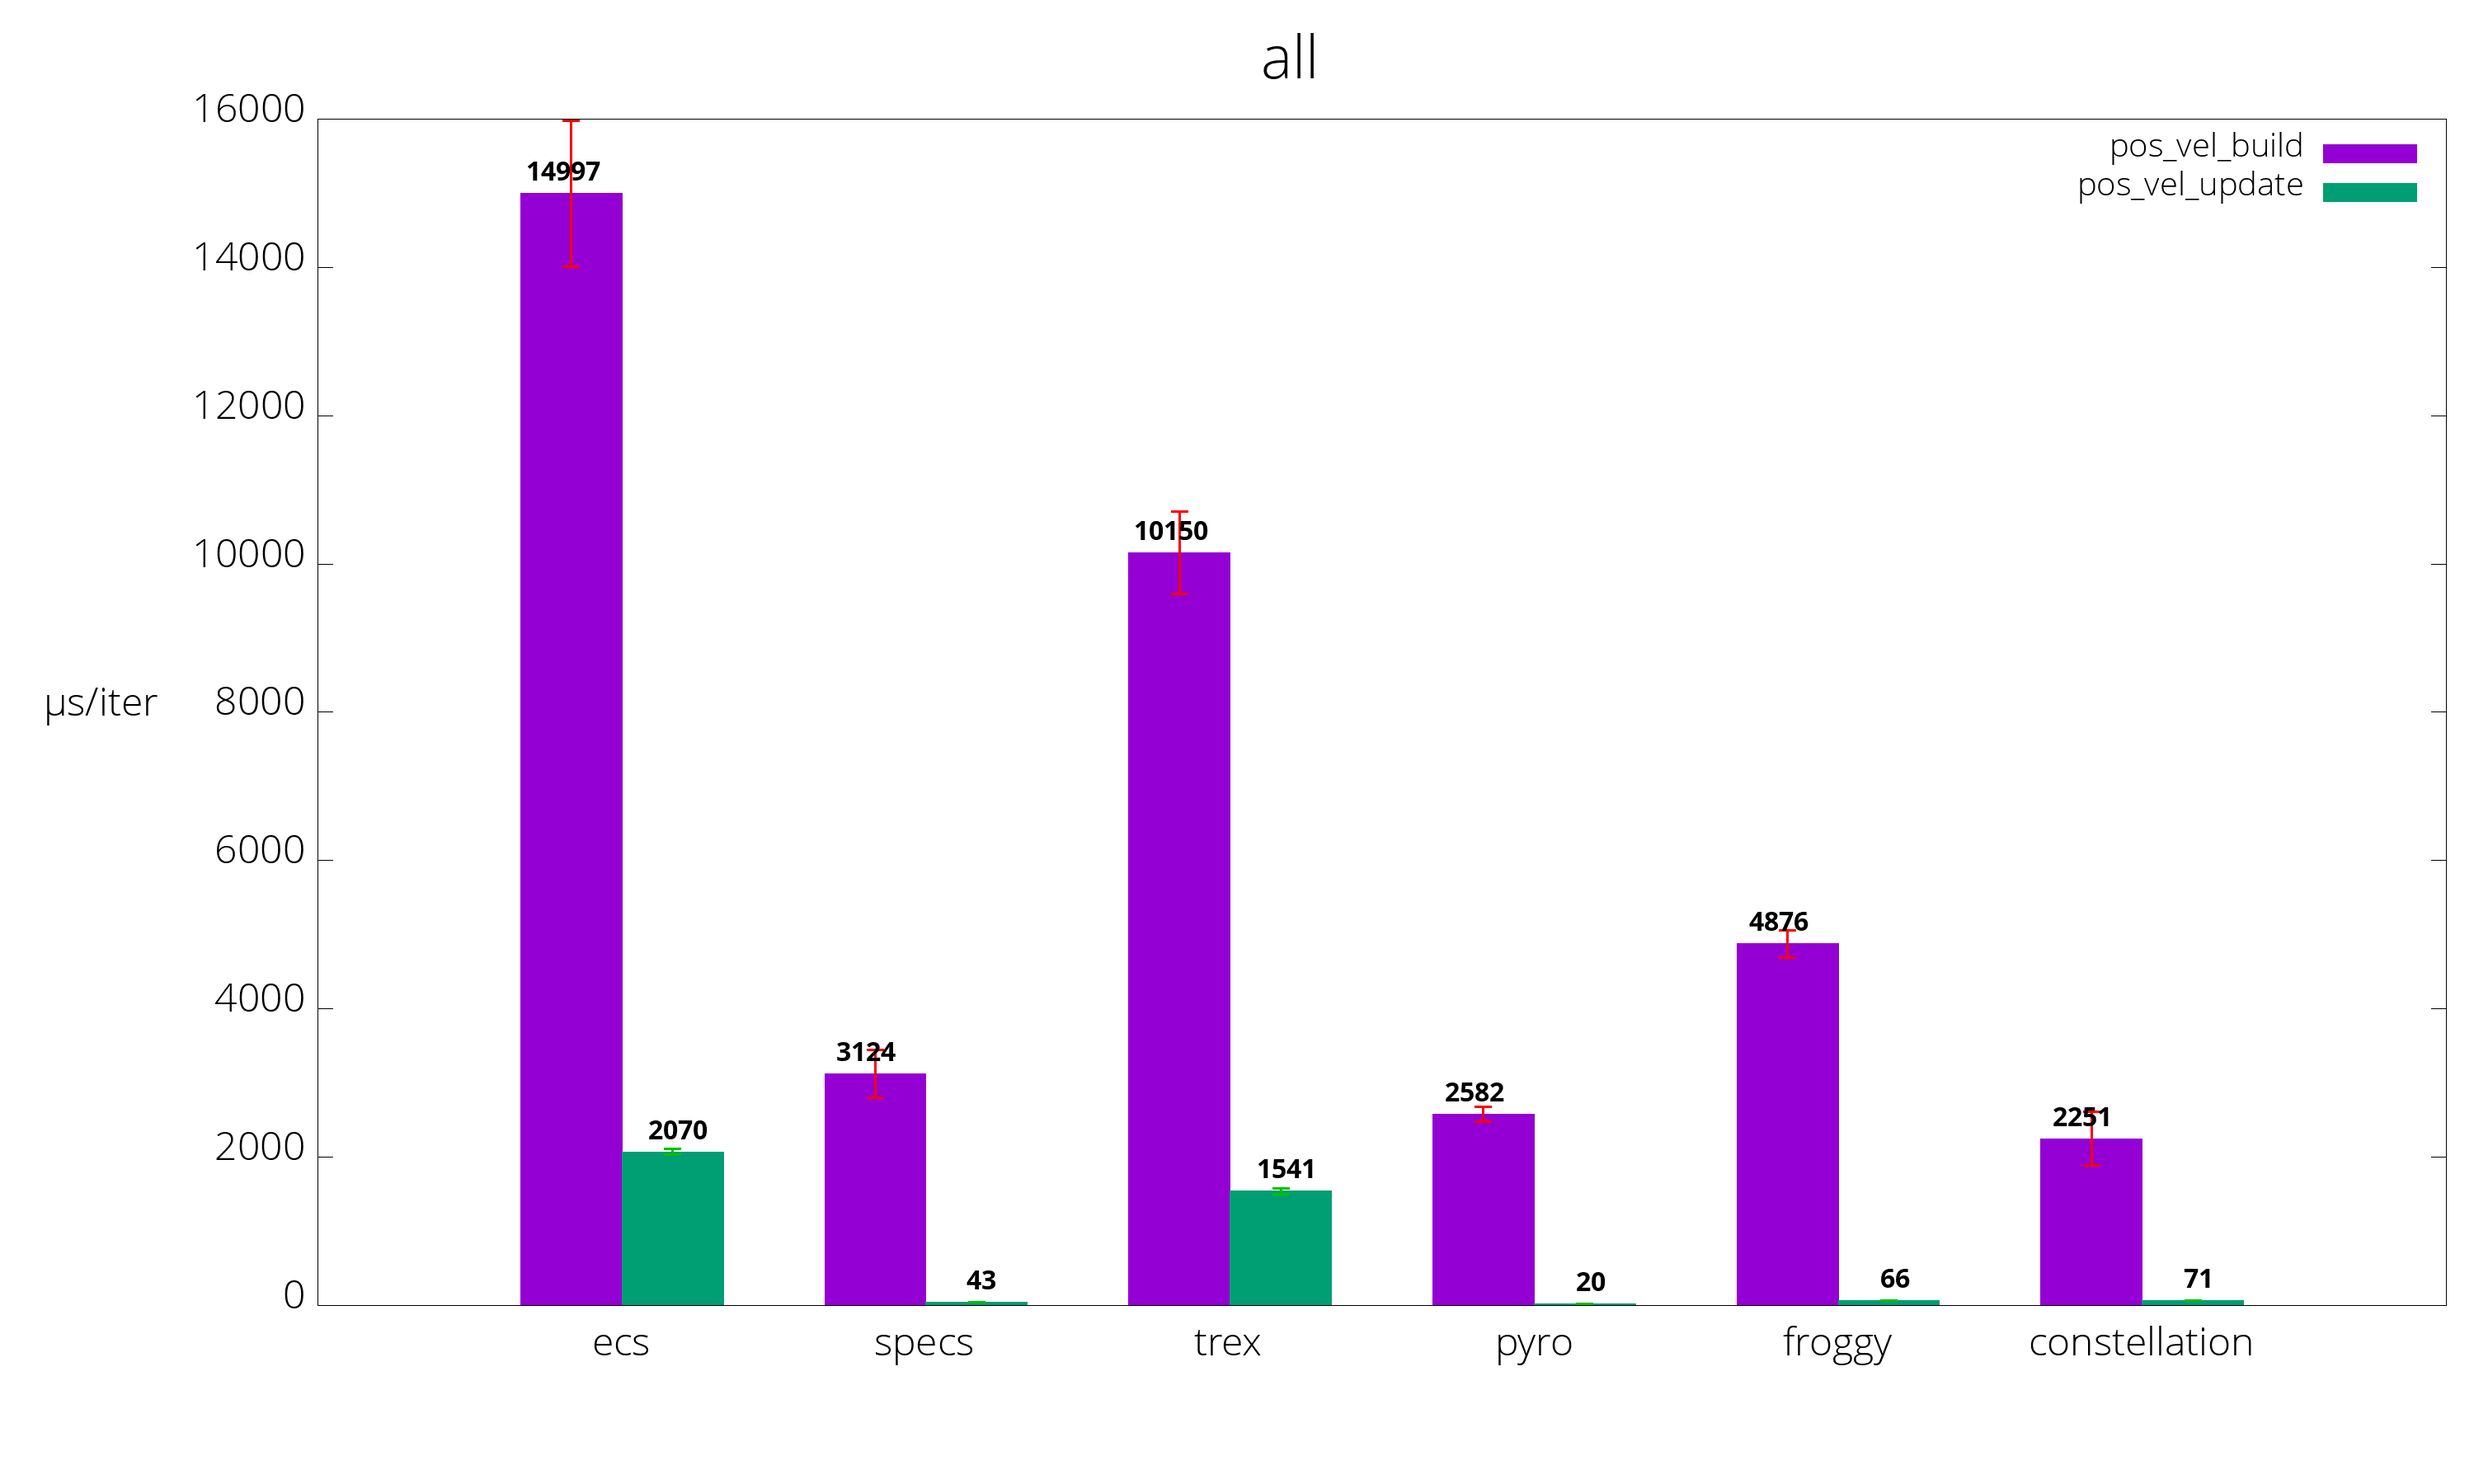
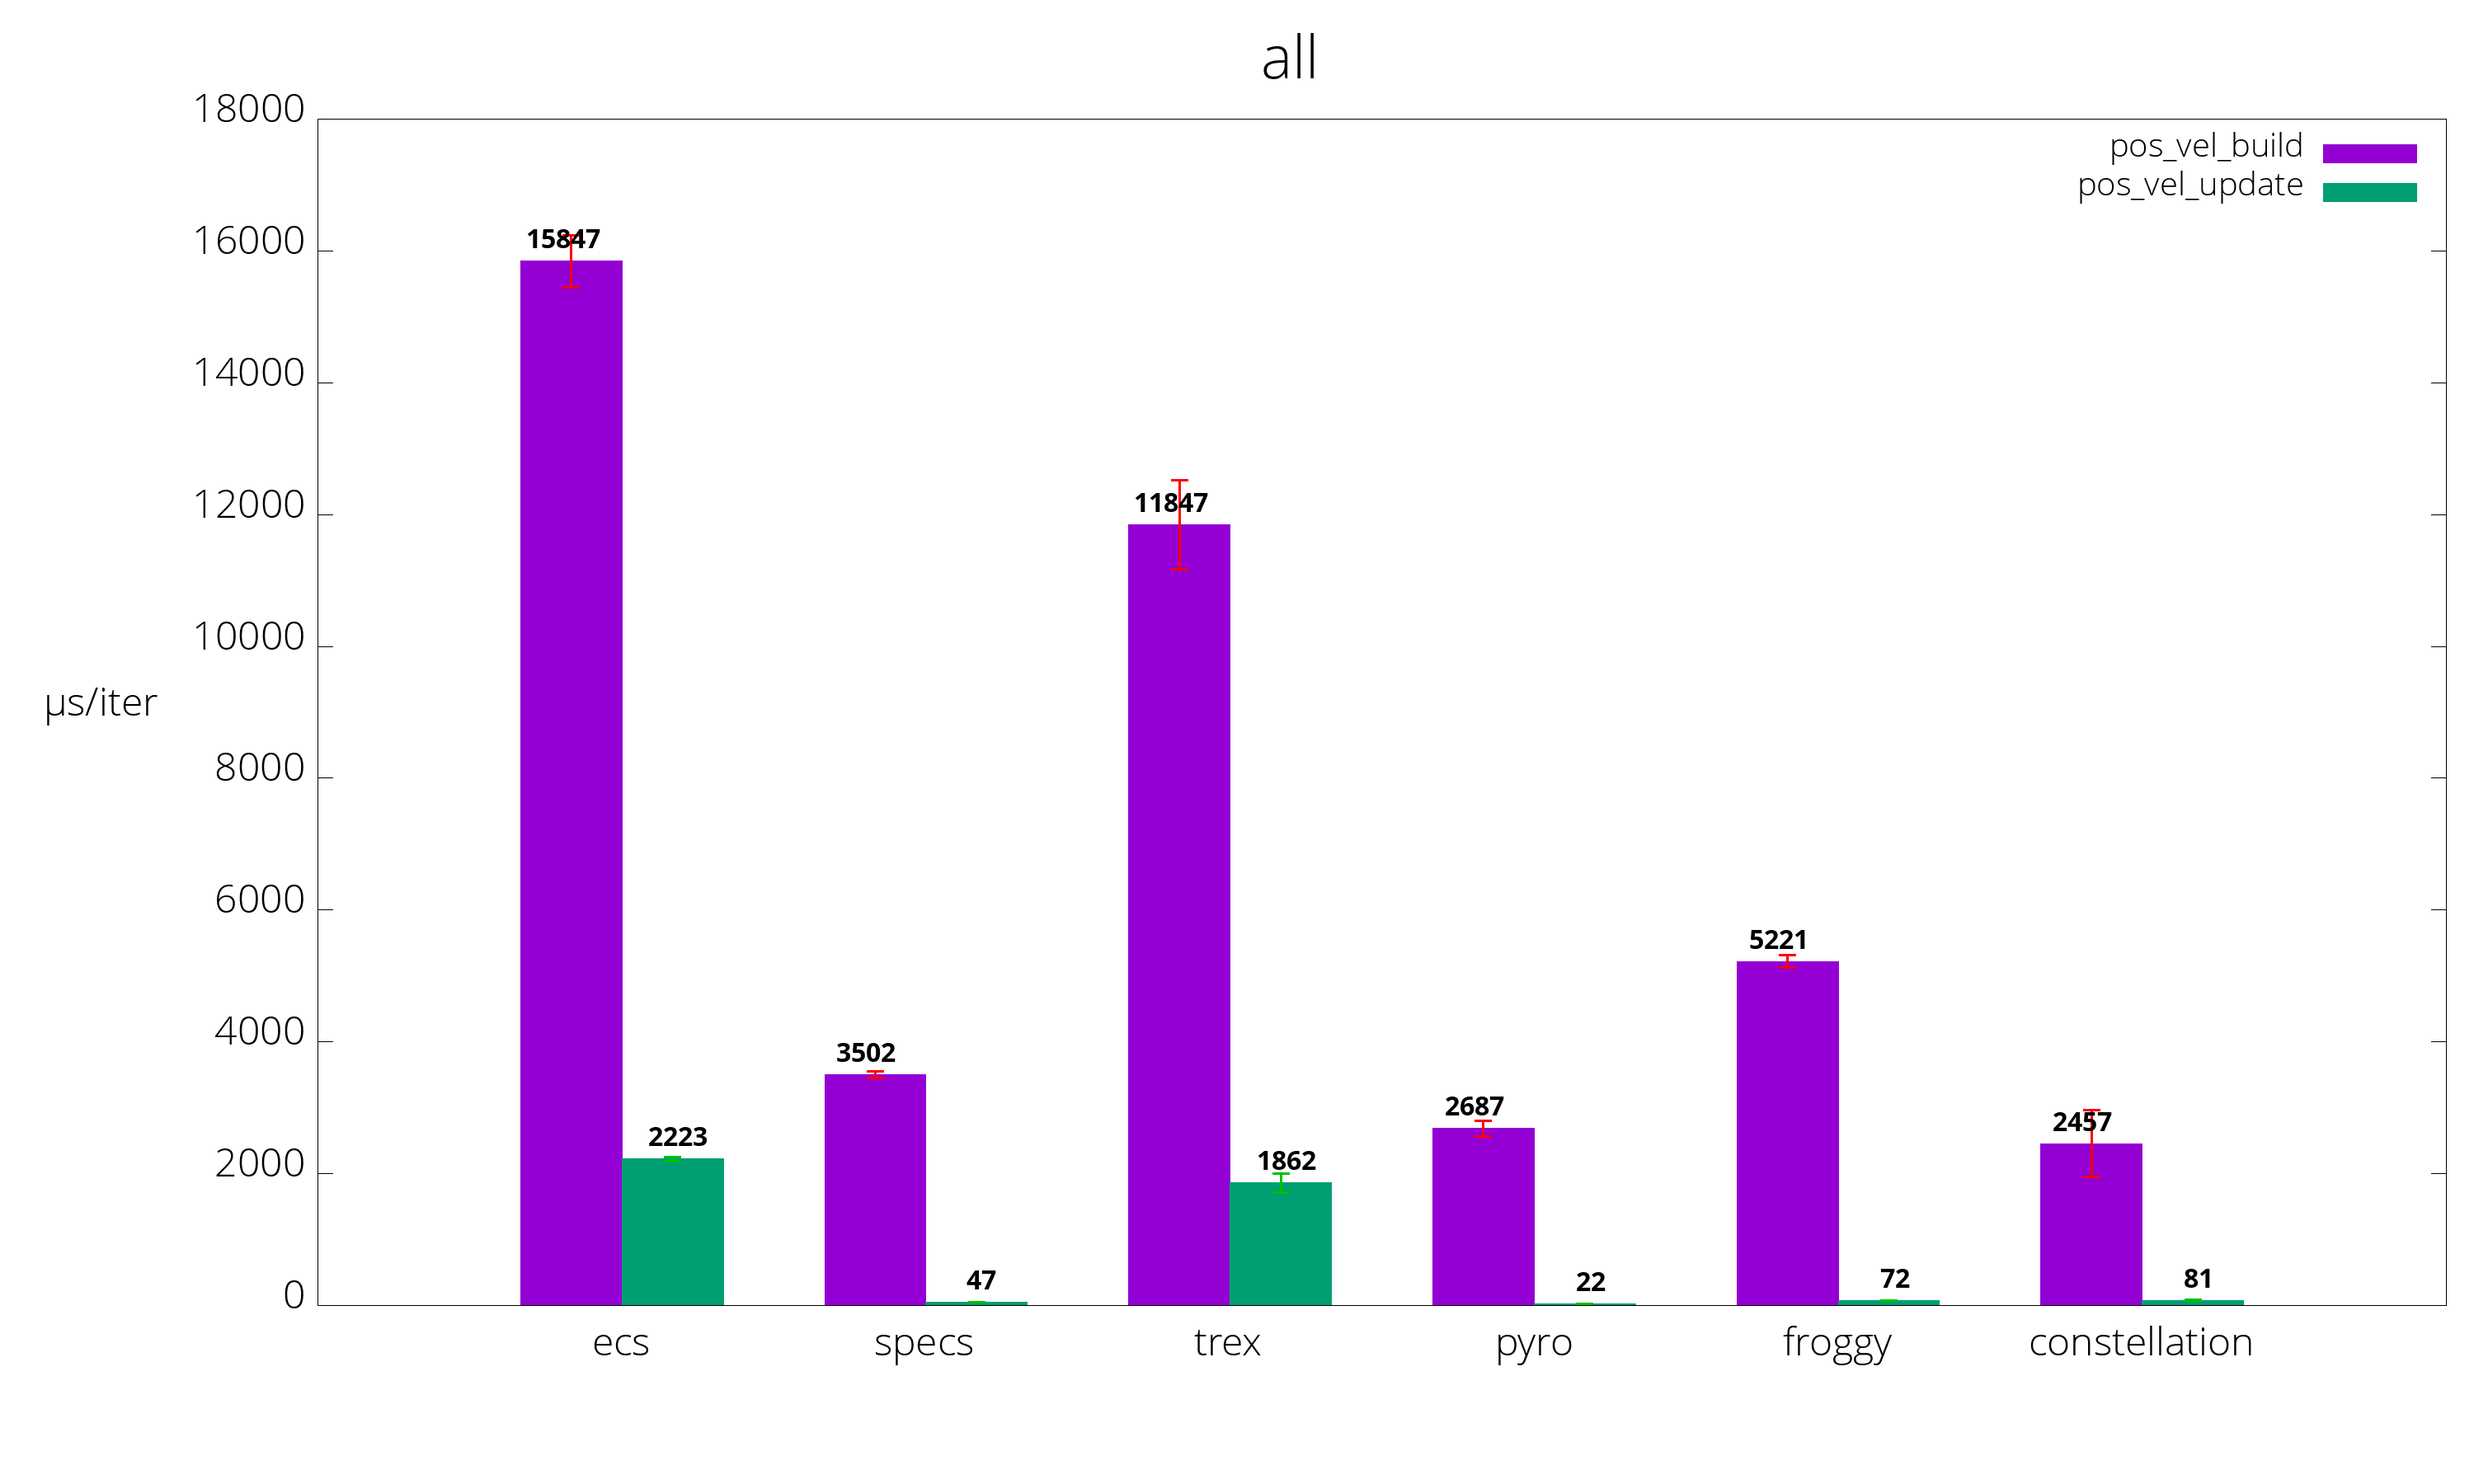
Update pyro to 0.2.1

diff --git a/README.md b/README.md
@@ -8,11 +8,11 @@ Benchmarks are located in `benches/[bench_name]_[ecs_crate_name].rs`.
  Library         | pos_vel build                 | pos_vel update                 | parallel build                 | parallel update
  --------------- |:-----------------------------:|:------------------------------:|:------------------------------:|:--------------------------------:
  [calx-ecs]      | {pos_vel_build_calx_ecs}      | {pos_vel_update_calx_ecs}      | {parallel_build_calx_ecs}      | {parallel_update_calx_ecs}
- [constellation] | 2,251 µs/iter (+/- 361) | 71 µs/iter (+/- 1) | {parallel_build_constellation} | {parallel_update_constellation}
- [ecs]           | 14,997 µs/iter (+/- 986)           | 2,070 µs/iter (+/- 38)           | {parallel_build_ecs}           | {parallel_update_ecs}
- [froggy]        | 4,876 µs/iter (+/- 183)        | 66 µs/iter (+/- 2)        | {parallel_build_froggy}        | {parallel_update_froggy}
- [specs]         | 3,124 µs/iter (+/- 318)         | 43 µs/iter (+/- 0)         | {parallel_build_specs}         | {parallel_update_specs}
- [trex]          | 10,150 µs/iter (+/- 559)          | 1,541 µs/iter (+/- 39)          | {parallel_build_trex}          | {parallel_update_trex}
+ [constellation] | 2,457 µs/iter (+/- 511) | 81 µs/iter (+/- 3) | {parallel_build_constellation} | {parallel_update_constellation}
+ [ecs]           | 15,847 µs/iter (+/- 394)           | 2,223 µs/iter (+/- 28)           | {parallel_build_ecs}           | {parallel_update_ecs}
+ [froggy]        | 5,221 µs/iter (+/- 89)        | 72 µs/iter (+/- 0)        | {parallel_build_froggy}        | {parallel_update_froggy}
+ [specs]         | 3,502 µs/iter (+/- 50)         | 47 µs/iter (+/- 0)         | {parallel_build_specs}         | {parallel_update_specs}
+ [trex]          | 11,847 µs/iter (+/- 673)          | 1,862 µs/iter (+/- 143)          | {parallel_build_trex}          | {parallel_update_trex}
 
 [calx-ecs]: https://github.com/rsaarelm/calx-ecs
 [constellation]: https://github.com/TomGillen/constellation/
